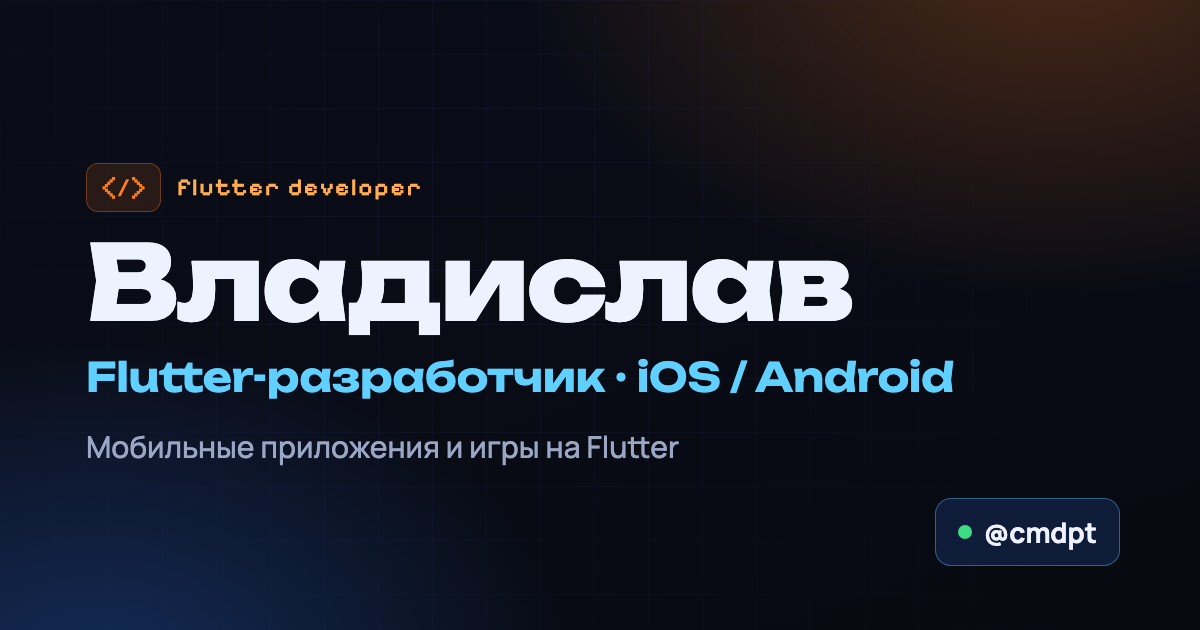
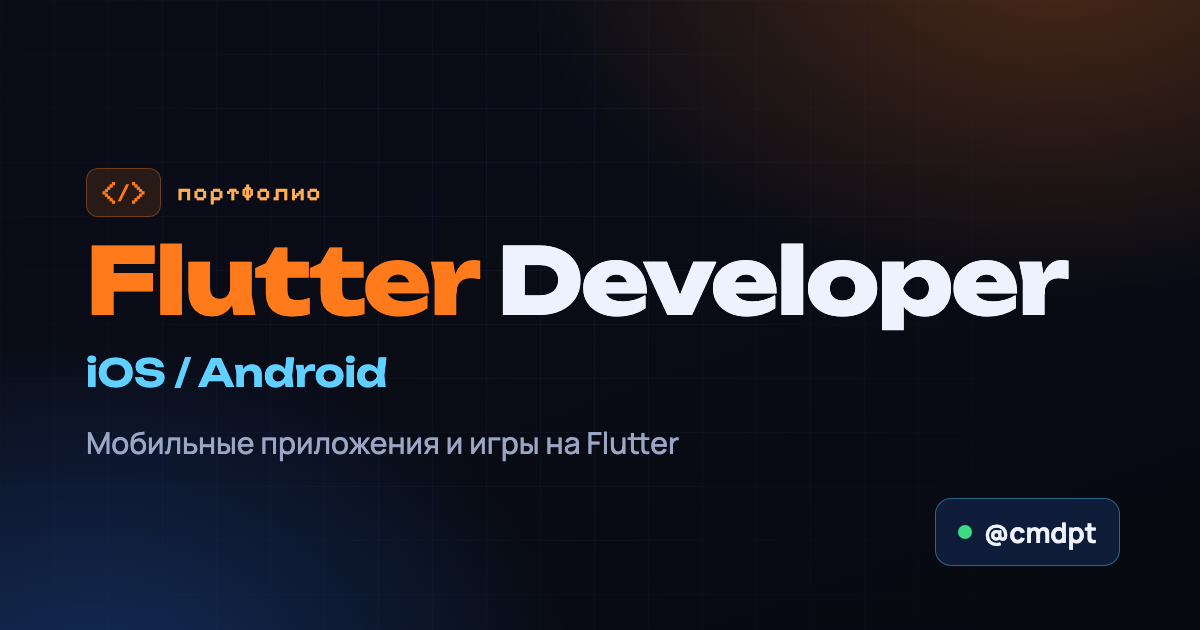
Remove name from link preview (title, OG, image)

Changed region(s): [[0.0617, 0.2413, 0.8942, 0.5429], [0.0617, 0.5429, 0.8017, 0.6333], [0.0617, 0.6937, 0.5858, 0.7238]]

diff --git a/index.html b/index.html
@@ -3,17 +3,17 @@
 <head>
 <meta charset="UTF-8" />
 <meta name="viewport" content="width=device-width, initial-scale=1.0" />
-<title>Владислав · Flutter Developer — Портфолио</title>
-<meta name="description" content="Портфолио Flutter-разработчика Владислава: мобильные приложения и игры на Flutter." />
+<title>Flutter Developer — Портфолио</title>
+<meta name="description" content="Портфолио Flutter-разработчика: мобильные приложения и игры на Flutter." />
 <meta property="og:type" content="website" />
 <meta property="og:url" content="https://cmdpt-portfolio.pages.dev/" />
-<meta property="og:title" content="Владислав — Flutter-разработчик" />
+<meta property="og:title" content="Flutter Developer — Портфолио" />
 <meta property="og:description" content="Мобильные приложения и игры на Flutter. iOS / Android." />
 <meta property="og:image" content="https://cmdpt-portfolio.pages.dev/assets/og.png" />
 <meta property="og:image:width" content="1200" />
 <meta property="og:image:height" content="630" />
 <meta name="twitter:card" content="summary_large_image" />
-<meta name="twitter:title" content="Владислав — Flutter-разработчик" />
+<meta name="twitter:title" content="Flutter Developer — Портфолио" />
 <meta name="twitter:description" content="Мобильные приложения и игры на Flutter. iOS / Android." />
 <meta name="twitter:image" content="https://cmdpt-portfolio.pages.dev/assets/og.png" />
 <link rel="preconnect" href="https://fonts.googleapis.com" />
